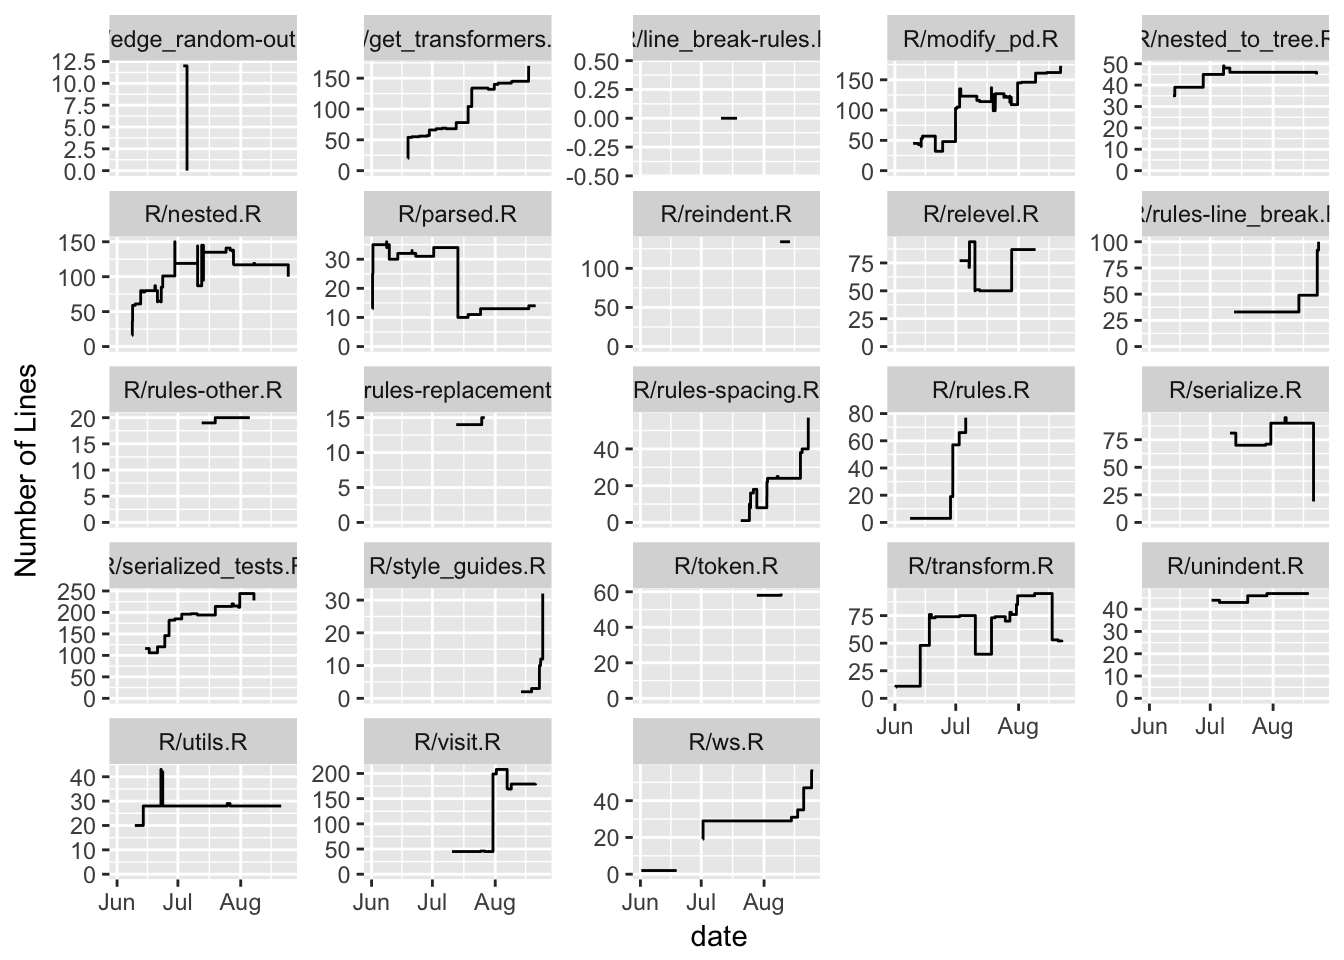
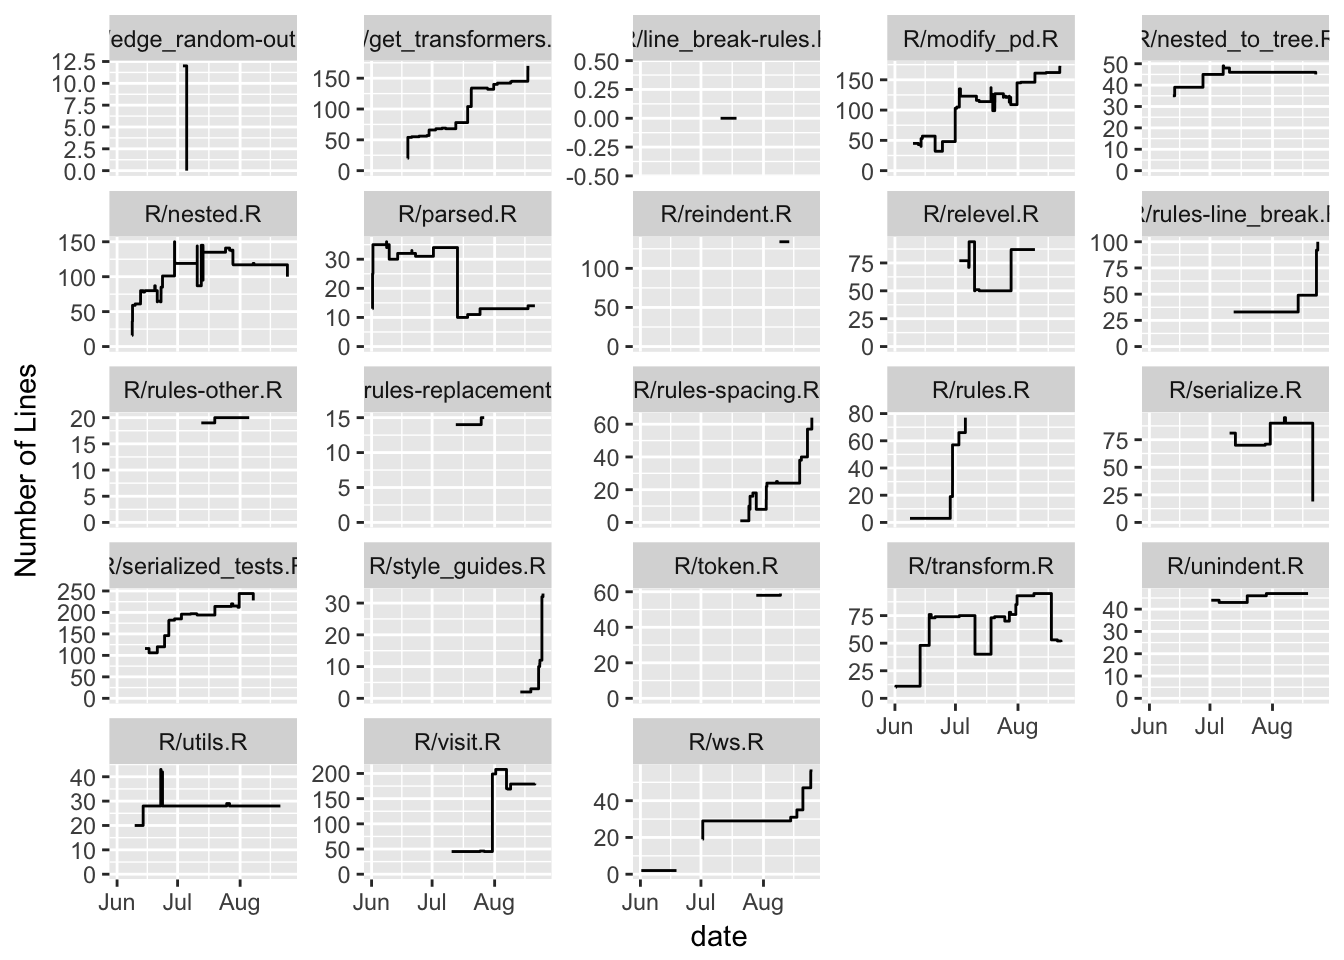
merge tidyeval PR

diff --git a/articles/gsoc_contrib.html b/articles/gsoc_contrib.html
@@ -100,7 +100,8 @@
 <p>As a warm-up, we want to give a few examples of how styler styles code. It’s possible to use different levels of invasiveness, as described in the help file for the style guide we implemented, which is the <a href="http://style.tidyverse.org/index.html">tidyverse style guide</a>. For example, we can limit ourselves to styling just spacing information.</p>
 <div class="sourceCode"><pre class="sourceCode r"><code class="sourceCode r"><span class="kw">library</span>(<span class="st">"styler"</span>)
 <span class="kw">library</span>(<span class="st">"magrittr"</span>)
-<span class="kw"><a href="../reference/style_text.html">style_text</a></span>(<span class="st">"a=3; 2"</span>, <span class="dt">scope =</span> <span class="st">"spaces"</span>) <span class="op">%&gt;%</span><span class="st"> </span><span class="kw">cat</span>()</code></pre></div>
+<span class="kw"><a href="../reference/style_text.html">style_text</a></span>(<span class="st">"a=3; 2"</span>, <span class="dt">scope =</span> <span class="st">"spaces"</span>) <span class="op">%&gt;%</span><span class="st"> </span>
+<span class="st">  </span><span class="kw">cat</span>()</code></pre></div>
 <pre><code>a = 3; 2</code></pre>
 <p>Or, on the other extreme of the scale, styling spaces, indention, line breaks and tokens:</p>
 <div class="sourceCode"><pre class="sourceCode r"><code class="sourceCode r"><span class="kw"><a href="../reference/style_text.html">style_text</a></span>(<span class="st">"a=3; 2"</span>, <span class="dt">scope =</span> <span class="st">"tokens"</span>) <span class="op">%&gt;%</span>
@@ -121,12 +122,12 @@
   large  = 6
 )</code></pre>
 <p>I hope these examples showed you some of the options available in styler. Let us for now focus on a configuration with <code>strict = TRUE</code> and <code>scope = "tokens"</code> and therefore only show code before and after styling.</p>
-<p>styler can distinguish unary operators and other math tokens</p>
+<p>styler can distinguish unary operators and other math tokens:</p>
 <pre class="styler"><code># Before
 1++1-1-1/2</code></pre>
 <pre><code># After
 1 + +1 - 1 - 1 / 2</code></pre>
-<p>It can also format complicated expressions that involve line breaking and indention based on both brace expressions and operators</p>
+<p>It can also format complicated expressions that involve line breaking and indention based on both brace expressions and operators:</p>
 <pre class="styler"><code># Before
 if (x &gt;3) {stop("this is an error")} else {
 c(there_are_fairly_long,
@@ -185,10 +186,10 @@ my_fun &lt;- function(x,
 <p>Styler can also deal with tidyeval syntax</p>
 <pre class="styler"><code># Before
 mtcars %&gt;%
-  group_by(!!!my_vars)</code></pre>
+  group_by(! !! my_vars)</code></pre>
 <pre><code># After
 mtcars %&gt;%
-  group_by(!!!my_vars)</code></pre>
+  group_by(!!! my_vars)</code></pre>
 </div>
 <div id="contributions-to-styler-during-gsoc" class="section level1">
 <h1 class="hasAnchor">
@@ -231,7 +232,7 @@ log &lt;-<span class="st"> </span><span class="kw"><a href="http://www.rdocument
       author_name     n
             &lt;chr&gt; &lt;int&gt;
 1   Kirill Müller    60
-2 Lorenz Walthert   357</code></pre>
+2 Lorenz Walthert   360</code></pre>
 <p>We can also look at how the number of lines in the different files evolved:</p>
 <div class="sourceCode"><pre class="sourceCode r"><code class="sourceCode r">lines &lt;-<span class="st"> </span>log <span class="op">%&gt;%</span>
 <span class="st">  </span><span class="kw"><a href="http://www.rdocumentation.org/packages/gitsum/topics/add_line_history">add_line_history</a></span>()
@@ -254,14 +255,14 @@ to_plot &lt;-<span class="st"> </span>lines <span class="op">%&gt;%</span>
 <span class="st">  </span><span class="kw">filter</span>(author_name <span class="op">==</span><span class="st"> "Lorenz Walthert"</span>) <span class="op">%&gt;%</span>
 <span class="st">  </span><span class="kw">summarize</span>(<span class="kw">sum</span>(total_insertions) <span class="op">+</span><span class="st"> </span><span class="kw">sum</span>(total_deletions)) <span class="op">%&gt;%</span>
 <span class="st">  </span><span class="kw">pull</span>()</code></pre></div>
-<pre><code>[1] 26317</code></pre>
+<pre><code>[1] 26541</code></pre>
 <p>Which still contains many insertions and deletions in some files that were generated as a bi-product, so let’s focus on the code in the <code>R</code> directory.</p>
 <div class="sourceCode"><pre class="sourceCode r"><code class="sourceCode r">log <span class="op">%&gt;%</span>
 <span class="st">  </span><span class="kw">unnest</span>() <span class="op">%&gt;%</span>
 <span class="st">  </span><span class="kw">filter</span>(<span class="kw">dirname</span>(changed_file) <span class="op">==</span><span class="st"> "R"</span>) <span class="op">%&gt;%</span>
 <span class="st">  </span><span class="kw">summarize</span>(<span class="kw">sum</span>(insertions) <span class="op">+</span><span class="st"> </span><span class="kw">sum</span>(deletions)) <span class="op">%&gt;%</span>
 <span class="st">  </span><span class="kw">pull</span>()</code></pre></div>
-<pre><code>[1] 5703</code></pre>
+<pre><code>[1] 5711</code></pre>
 <p>The core code with .R file only consists of</p>
 <div class="sourceCode"><pre class="sourceCode r"><code class="sourceCode r">log <span class="op">%&gt;%</span>
 <span class="st">  </span><span class="kw">unnest</span>() <span class="op">%&gt;%</span>
@@ -269,7 +270,7 @@ to_plot &lt;-<span class="st"> </span>lines <span class="op">%&gt;%</span>
 <span class="st">  </span><span class="kw">summarize</span>(<span class="kw">sum</span>(insertions) <span class="op">-</span><span class="st"> </span><span class="kw">sum</span>(deletions)) <span class="op">%&gt;%</span>
 <span class="st">  </span><span class="kw">pull</span>() <span class="op">%&gt;%</span>
 <span class="st">  </span><span class="kw">cat</span>(<span class="st">"lines"</span>)</code></pre></div>
-<pre><code>3964 lines</code></pre>
+<pre><code>3972 lines</code></pre>
 </div>
 <div id="final-remarks" class="section level1">
 <h1 class="hasAnchor">

diff --git a/articles/customizing_styler.html b/articles/customizing_styler.html
@@ -113,11 +113,11 @@
 <pre><code>## List of 6
 ##  $ filler           :function (pd_flat)  
 ##  $ line_break       :List of 8
-##   ..$ remove_line_break_before_curly_opening                                                  :function (pd)  
-##   ..$ remove_line_break_before_round_closing                                                  :function (pd)  
-##   ..$ if (strict) set_line_break_afer_curly_opening else add_line_break_afer_curly_opening    :function (pd)  
+##   ..$ remove_line_break_before_curly_opening                                                                                                            :function (pd)  
+##   ..$ remove_line_break_before_round_closing                                                                                                            :function (pd)  
+##   ..$ if (strict) set_line_break_afer_curly_opening else add_line_break_afer_curly_opening                                                              :function (pd)  
 ##   .. [list output truncated]
-##  $ space            :List of 22
+##  $ space            :List of 23
 ##   ..$ partial(indent_round, indent_by = indent_by)                                 :function (...)  
 ##   ..$ partial(indent_curly, indent_by = indent_by)                                 :function (...)  
 ##   ..$ partial(indent_op, indent_by = indent_by)                                    :function (...)  
